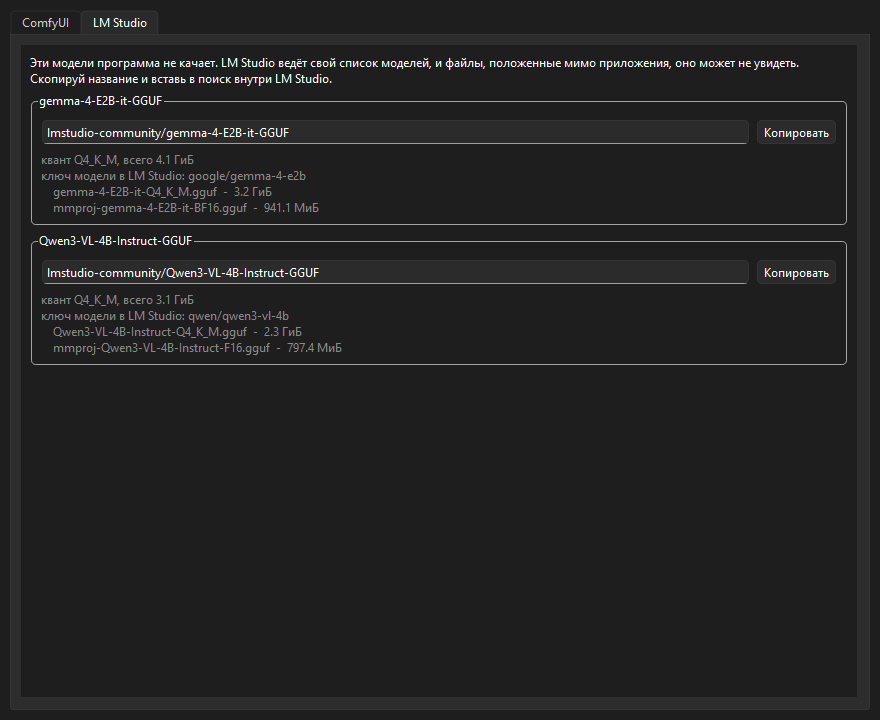
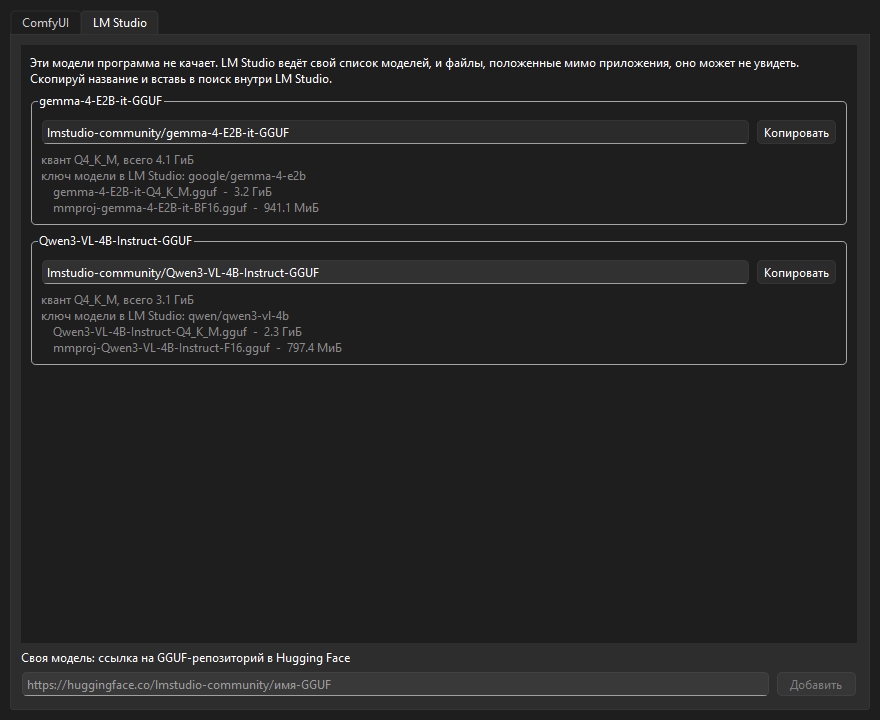
Документация про добавление по ссылке: оба README и docs
Версия 2.1.0. Снимки окна пересобраны скриптом - на вкладках появилось поле
для своей модели.

Changed region(s): [[0.0, 0.8861, 0.9511, 0.9778]]

diff --git a/README.ru.md b/README.ru.md
@@ -2,7 +2,7 @@
 
 # InstallerModels
 
-**Возвращает модели ComfyUI обратно на диск: качает с Hugging Face напрямую, с докачкой после обрыва, проверкой размера и sha256. 15 файлов на 95.4 ГиБ, разложенных по группам под конкретные воркфлоу.**
+**Возвращает модели ComfyUI обратно на диск: качает с Hugging Face напрямую, с докачкой после обрыва, проверкой размера и sha256. 15 файлов на 95.4 ГиБ, разложенных по группам под конкретные воркфлоу. Свои модели добавляются ссылкой - размер, контрольную сумму и настройки программа спрашивает у Hugging Face сама.**
 
 [Скачать для Windows](https://github.com/ALEXalesha/InstallerModels/releases/latest) &nbsp;·&nbsp; [English version of this file](README.md)
 
@@ -24,8 +24,8 @@
 
 | Вариант | Кому | Что нужно |
 |---|---|---|
-| `InstallerModels-Setup-2.0.0.exe` | обычная установка с ярлыками | ничего |
-| `InstallerModels-portable-2.0.0.zip` | распаковать и запускать, без установки | ничего |
+| `InstallerModels-Setup-2.1.0.exe` | обычная установка с ярлыками | ничего |
+| `InstallerModels-portable-2.1.0.zip` | распаковать и запускать, без установки | ничего |
 | `python install.py` | из консоли, скриптом | Python 3.8+ |
 
 Готовые файлы лежат в `dist/` после сборки, в git их нет. Как собрать - в [docs/build.md](docs/build.md).
@@ -34,13 +34,13 @@
 
 ### Установка
 
-Запусти `InstallerModels-Setup-2.0.0.exe`. Ставится в папку пользователя (`%LOCALAPPDATA%\Programs\InstallerModels`), права администратора не нужны, UAC не выскочит. Создаёт ярлык в меню Пуск, запись в «Программы и компоненты» для нормального удаления и, если не снять галочку, ярлык на рабочем столе. Галочка снимается на странице выбора компонентов.
+Запусти `InstallerModels-Setup-2.1.0.exe`. Ставится в папку пользователя (`%LOCALAPPDATA%\Programs\InstallerModels`), права администратора не нужны, UAC не выскочит. Создаёт ярлык в меню Пуск, запись в «Программы и компоненты» для нормального удаления и, если не снять галочку, ярлык на рабочем столе. Галочка снимается на странице выбора компонентов.
 
 Установка поверх старой версии сначала сносит папку `_internal` целиком. PyInstaller меняет имена библиотек от сборки к сборке, и старые копирование новых файлов не перезаписывает: они просто остаются лежать рядом, а программа с ними не стартует.
 
 ### Portable
 
-Распакуй `InstallerModels-portable-2.0.0.zip` в любую папку (можно на флешку) и запусти `InstallerModels\InstallerModels.exe`. Ничего никуда не пишет, кроме самих моделей и запомненной папки ComfyUI. Рядом с exe лежит `models.json` - его можно править, программа возьмёт его вместо встроенного.
+Распакуй `InstallerModels-portable-2.1.0.zip` в любую папку (можно на флешку) и запусти `InstallerModels\InstallerModels.exe`. Ничего никуда не пишет, кроме самих моделей и запомненной папки ComfyUI. Рядом с exe лежит `models.json` - его можно править, программа возьмёт его вместо встроенного.
 
 До версии 2.0 portable был одним exe. С Qt такой exe при каждом запуске распаковывал бы себя во временную папку - десятки мегабайт и секунды ожидания, - поэтому теперь это та же папка, что ставит установщик, только в архиве. Запускается она меньше чем за секунду.
 
@@ -54,9 +54,11 @@
 
 «Скачать выбранное» запускает загрузку. В окне подтверждения написан полный объём группы и отдельно то, что уже лежит недокачанным. Показываются две полосы: по текущему файлу и по всей очереди, плюс скорость и примерное время до конца. Обе цифры считают то, что уже на диске: полоса «всего» стартует с недокачанного, а время - только по тем байтам, которым ещё лететь по сети. До версии 1.0.4 в поток уходил один полный объём очереди, и после обрыва окно начинало полосу с нуля там, где на диске лежало почти всё, и обещало часы вместо минут. Файл, на котором вышла ошибка, полосу больше не заливает до конца: она останавливается на том, сколько успело лечь. «Отмена» останавливает, недокачанное сохраняется - в следующий раз продолжится с того же места. Если отмена пришла ровно на дописанном файле, он всё равно получит нормальное имя, а не останется `.part`.
 
+Под списком групп - поле «Своя модель: ссылка на файл в Hugging Face»: вставь ссылку, нажми «Добавить», и файл появится в списке отдельной группой. Подробности в разделе «Своя модель по ссылке». Пока идёт закачка, кнопка заперта: очередь в потоке собрана по старому списку.
+
 «Проверить файлы» пересматривает диск и обновляет статусы. Полезно, если ты что-то удалил вручную.
 
-Вкладка LM Studio - названия моделей с кнопкой «Копировать». Рядом с квантом показан ключ модели в LM Studio - тот, которым её зовут из `lms load` и из API. Он лежал в `models.json` и был расписан в документации, а сама программа его не показывала нигде. Скопированное переживает закрытие окна: Qt при выходе сам отдаёт буфер обмена системе. (На tkinter до версии 1.0.5 «скопировал и закрыл» означало «вставлять нечего» - ровно тот порядок действий, на который кнопка и рассчитана.)
+Вкладка LM Studio - названия моделей с кнопкой «Копировать» и таким же полем для своей модели внизу. Рядом с квантом показан ключ модели в LM Studio - тот, которым её зовут из `lms load` и из API. Он лежал в `models.json` и был расписан в документации, а сама программа его не показывала нигде. Скопированное переживает закрытие окна: Qt при выходе сам отдаёт буфер обмена системе. (На tkinter до версии 1.0.5 «скопировал и закрыл» означало «вставлять нечего» - ровно тот порядок действий, на который кнопка и рассчитана.)
 
 ![Вкладка LM Studio](docs/screen-lmstudio.png)
 
@@ -109,6 +111,9 @@ python install.py --lmstudio
 | `--lmstudio` | Названия моделей для LM Studio |
 | `--sync-manifest` | Сверяет размеры и суммы в `models.json` с Hugging Face |
 | `--sync-manifest --write` | То же самое, но вписывает их в файл |
+| `--add ССЫЛКА` | Добавляет свою модель в `models.json` по ссылке на Hugging Face |
+| `--add ССЫЛКА --lmstudio` | То же для раздела LM Studio |
+| `--add ССЫЛКА --dest ПУТЬ --group ИМЯ` | Куда положить и в какую группу, если догадка не подходит |
 | `--root ПУТЬ` | Другая папка ComfyUI вместо той, что в `models.json` |
 
 До версии 1.0.5 названия групп при `--check` игнорировались молча: `--check ltx` пересчитывал все 95 ГиБ, а `--check ltxx` с опечаткой - тоже все, и про опечатку не говорил никто. Теперь названия проверяются до разбора команды, одинаково для `--check` и для установки.
@@ -218,7 +223,7 @@ python install.py --all
 
 ## Перенос на другое устройство
 
-Программа переносится копированием: возьми `dist/InstallerModels-portable-2.0.0.zip` (или папку `dist/app/InstallerModels` целиком) - там exe, `_internal`, `models.json`, оба README и `docs`. Python на новой машине не нужен, он внутри. Нужны только Windows и x64. Либо просто поставь там `InstallerModels-Setup`.
+Программа переносится копированием: возьми `dist/InstallerModels-portable-2.1.0.zip` (или папку `dist/app/InstallerModels` целиком) - там exe, `_internal`, `models.json`, оба README и `docs`. Python на новой машине не нужен, он внутри. Нужны только Windows и x64. Либо просто поставь там `InstallerModels-Setup`.
 
 Что **не** переезжает - запомненная папка ComfyUI. Она лежит в `%LOCALAPPDATA%\InstallerModels\settings.json`, то есть привязана к машине и к учётной записи. На новой машине программа возьмёт путь из `models.json`, а он указывает в профиль того, кто этот файл правил. Если папка не найдётся, включится поиск по обычным местам, и чаще всего ComfyUI найдётся сам. Если нет - ткни «Обзор» один раз, дальше запомнится.
 
@@ -259,27 +264,67 @@ lms get lmstudio-community/gemma-4-E2B-it-GGUF
 | `install.py` | Консольный вариант |
 | `build.ps1` | Точка входа сборки: создаёт `.venv` проекта, ставит зависимости, зовёт `build.py` |
 | `build.py` | Сборка папки программы, portable-архива и установщика |
-| `requirements.txt`, `requirements-dev.txt` | PySide6 для окна; PyInstaller для сборки |
+| `requirements.txt`, `requirements-dev.txt` | PySide6 для окна; PyInstaller для сборки, hypothesis для свойств |
 | `setup.nsi` | Скрипт установщика для NSIS |
 | `tests.py` | Проверки на всё, что уже ломалось. Гоняются перед каждой сборкой |
 | `tests_matrix.py` | Перебор пространства состояний с проверкой инвариантов |
+| `tests_props.py` | Свойства добавления по ссылке: гипотезы вместо примеров |
 | `docs/` | Сборка, полный список моделей, LM Studio. Едет в поставку рядом с exe |
 
 Окно и консоль пользуются одним `core.py`, поэтому логика скачивания у них не может разойтись.
 
 `tests.py` запускается сам по себе - `.venv\Scripts\python.exe tests.py` - и не требует сети; из сторонних библиотек ему нужен только PySide6 для проверок окна, и живёт он в `.venv` проекта, а не в общем Python. Hugging Face в нём изображает локальный сервер, которому можно велеть рвать соединение, отдавать не тот размер или молчать в ответ.
 
-Проверок две пачки, и устроены они противоположно. В `tests.py` - список поломок, которые уже случались: каждая написана после того, как баг нашёлся, и названа так, чтобы из отчёта было понятно, что именно сломалось. Такие проверки по построению ловят баг только во второй раз.
+Проверок три пачки, и устроены они по-разному. В `tests.py` - список поломок, которые уже случались: каждая написана после того, как баг нашёлся, и названа так, чтобы из отчёта было понятно, что именно сломалось. Такие проверки по построению ловят баг только во второй раз.
 
 В `tests_matrix.py` - наоборот: он не знает ни одного конкретного бага. Он перебирает 480 сочетаний того, как может повести себя сервер и что может лежать на диске, и в каждой клетке требует одних и тех же семи правил - вроде «наружу вылетает только понятная ошибка, а не трассировка Python» и «под настоящим именем никогда не появляется неправильное содержимое». Такие правила ловят и то, чего никто не предвидел. Там же перебираются 1884 очереди для полосок окна и 264 способа испортить манифест.
 
-Всего 64 проверки, за четырьмя из них 2640 порождённых. Проверками накрыты и консоль (коды возврата, разбор команды, установка от начала до конца), и окно (сборка виджетов, насос событий, три исхода закачки, 300 случайных действий подряд с проверкой инвариантов после каждого, поиск окна по заголовку так же, как это делает установщик, скорость ресайза), и сама сборка, и `setup.nsi`.
+В `tests_props.py` - третий способ: он не знает даже пространства. Он описывает, каким бывает вход - ссылка, опись репозитория, состояние манифеста, - а hypothesis сама ищет тот, на котором правило ломается, и ужимает найденное до кратчайшего примера. В первый же прогон так нашлись три настоящие ошибки: квант брался первым совпадением в имени, а не последним (`Qwen3-Q8-preview-Q4_K_M.gguf` записался бы как `Q8`); файл с именем устройства объяснялся жалобой на `models.json`, которого человек не трогал; а `https://example.com/a/b/...` разбиралось как репозиторий `example.com/a`.
+
+Всего 86 проверок, за семью из них больше шести тысяч порождённых. Проверками накрыты и консоль (коды возврата, разбор команды, установка от начала до конца), и окно (сборка виджетов, насос событий, три исхода закачки, 300 случайных действий подряд с проверкой инвариантов после каждого, поиск окна по заголовку так же, как это делает установщик, скорость ресайза), и сама сборка, и `setup.nsi`.
 
 Подробно про инварианты, оси перебора и мутационный прогон - в [docs/tests.md](docs/tests.md).
 
+## Своя модель по ссылке (с версии 2.1)
+
+В списке лежат модели под конкретные воркфлоу - чужому человеку нужны другие. Раньше для этого приходилось править `models.json` руками и самому добывать точный размер в байтах: ошибка на четыре байта останавливает скачивание сообщением «manifest is out of date», то есть чинить отправляли число, которое ты же и переписал.
+
+Теперь достаточно ссылки. В окне, на вкладке ComfyUI под списком групп, есть поле «Своя модель: ссылка на файл в Hugging Face». В консоли:
+
+```bash
+python install.py --add "https://huggingface.co/автор/репозиторий/blob/main/файл.safetensors"
+```
+
+Программа спрашивает у Hugging Face опись репозитория - ту же, по которой работает `--sync-manifest`, - и берёт оттуда точный размер и sha256. Добавленная запись с первой секунды проверяется так же, как те пятнадцать, что лежали в манифесте изначально.
+
+Ссылку понимают в любом виде, в каком её копируют: `/resolve/`, `/blob/`, `/raw/`, с хвостом `?download=true`, с процентными кодами, без `https://` и короткой записью `автор/репозиторий/путь`. Ветка только `main`: другую программа качать не умеет и потому честно отказывается, а не делает вид.
+
+Папку внутри ComfyUI программа угадывает по тому, как файлы разложены в репозитории: `split_files/text_encoders/...` идёт в `models/text_encoders`, `.gguf` - в `models/unet` (в ComfyUI это квантованный unet для GGUF-нод, а не чекпойнт), файл со словом `lora` в имени - в `models/loras`. Догадка названа догадкой в выводе, и её можно не угадывать:
+
+```bash
+python install.py --add "ссылка" --dest models/loras/моя-lora.safetensors --group свои
+```
+
+Без `--group` файл ложится в группу `custom` («Добавленные вручную»), она создаётся при первом добавлении. `--dry-run` показывает, что добавилось бы, и ничего не записывает.
+
+Отказ ничего не меняет: если репозитория нет, файл не найден, связь оборвалась или запись не годится, манифест остаётся ровно таким, каким был. Половина записи в нём хуже, чем её отсутствие - следующий запуск читает манифест целиком и остановится на кривой строке.
+
+### LM Studio: то же самое, только настройки программа выясняет сама
+
+На вкладке «LM Studio» внизу такое же поле, в консоли - `--add ССЫЛКА --lmstudio`. Тут известен только адрес репозитория, поэтому остальное программа выясняет:
+
+- **файлы и их точные размеры с суммами** - из описи репозитория;
+- **квант** - из имени выбранного файла; по умолчанию берётся `Q4_K_M`, а если нужен другой, дай ссылку прямо на нужный `.gguf`;
+- **спутник `mmproj`** - по имени; без него модель перестанет принимать картинки;
+- **ключ для `lms load`** - из `base_model` в карточке репозитория: `google/gemma-4-E2B-it` даёт `google/gemma-4-e2b`.
+
+Что из этого выведено догадкой, а не прочитано с сервера, программа перечисляет прямо в отчёте. Ключ - именно догадка; он необязателен, и без него всё работает как раньше.
+
+Подробности: [docs/models.md](docs/models.md) и [docs/lmstudio.md](docs/lmstudio.md).
+
 ## Если поменялся состав моделей
 
-Программа ничего не угадывает, она читает `models.json`. Чтобы добавить модель, допиши в нужную группу запись:
+Руками править `models.json` по-прежнему можно, и программа по-прежнему ничего не угадывает - она читает этот файл. Чтобы добавить модель вручную, допиши в нужную группу запись:
 
 ```json
 {

diff --git a/README.md b/README.md
@@ -2,7 +2,7 @@
 
 # InstallerModels
 
-**Puts ComfyUI models back on the disk after you deleted them to free space. Downloads straight from Hugging Face, resumes after a broken connection, checks the size and the sha256 - 15 files, 95.4 GiB, grouped by the workflow that needs them.**
+**Puts ComfyUI models back on the disk after you deleted them to free space. Downloads straight from Hugging Face, resumes after a broken connection, checks the size and the sha256 - 15 files, 95.4 GiB, grouped by the workflow that needs them. Your own models are added by pasting a link: the size, the hash and the settings are asked of Hugging Face, not of you.**
 
 [Download for Windows](https://github.com/ALEXalesha/InstallerModels/releases/latest) &nbsp;·&nbsp; [Русская версия этого файла](README.ru.md)
 
@@ -28,6 +28,7 @@ Models for LM Studio are **not** downloaded: files put into a folder behind LM S
 | Resume | the partial file lives next to the real one as `.part` and is never deleted, so the next run continues from the same byte |
 | Integrity | the size is checked against the response header before a single byte lands, and again after the download; the sha256 is computed while the bytes flow and verified before the file takes its final name |
 | No dependencies | the console version is bare standard library, Python 3.8+; the window adds PySide6 |
+| Your own models | paste a Hugging Face link, in the window or with `--add`: the exact size and sha256 come from the repository listing |
 | Windows builds | installer and portable, both carrying Python inside |
 
 <img src="docs/screen-lmstudio.png" width="820" alt="The LM Studio tab">
@@ -42,6 +43,8 @@ python install.py --check ltx       # per-file state: whole, partial, corrupt, m
 python install.py --verify          # recompute sha256 of what is on the disk
 python install.py --remove ltx --yes
 python install.py --sync-manifest --write   # refresh sizes and hashes from Hugging Face
+python install.py --add "https://huggingface.co/owner/repo/blob/main/file.safetensors"
+python install.py --add "https://huggingface.co/lmstudio-community/Some-GGUF" --lmstudio
 python install.py --all --root "D:/ComfyUI"
 ```
 
@@ -61,6 +64,24 @@ Every rule below was written after the matching failure actually happened. The [
 - **`Accept-Encoding: identity` is sent on purpose.** If a proxy compresses the response, `Content-Length` becomes the size of the archive, and a `Range` resume would seek into the wrong offsets.
 - **A full disk is reported as a full disk**, not retried as a network failure. Free space is checked up front for the whole queue, minus what already lies in `.part`.
 - **`dest` is validated when the manifest is read.** `Path("C:/ComfyUI") / "C:/qwe.bin"` is just `C:/qwe.bin` in Python - one typo and a 30 GiB file goes somewhere else entirely. Absolute paths, `..`, and the Windows device names (`CON`, `NUL`, `COM1`…) plus trailing spaces and dots are rejected outright: those are the names Windows accepts and then stores differently, so the file downloads again on every run, with no error and no file.
+
+## Adding your own model (2.1)
+
+The list ships the models one person's workflows need; anyone else needs different ones. That used to mean editing `models.json` by hand, including finding the exact size **in bytes** - and a four-byte mistake stops the download with "manifest is out of date", sending you to fix the very number you had just typed.
+
+Now it takes a link. There is a field under the group list in the window, and `--add` in the console:
+
+```bash
+python install.py --add "https://huggingface.co/owner/repo/blob/main/model.safetensors"
+```
+
+The program asks Hugging Face for the repository listing - the same one `--sync-manifest` uses - and takes the exact size and sha256 from it. The new entry is then checked exactly like the fifteen that shipped with it.
+
+- **Any shape of link works**: `/resolve/`, `/blob/`, `/raw/`, with `?download=true`, percent-encoded, without `https://`, or the short `owner/repo/path`. Only the `main` branch is accepted, because that is the only one the downloader can fetch - promising otherwise would be a lie.
+- **The folder inside ComfyUI is a guess, and is labelled as one**: `split_files/text_encoders/...` goes to `models/text_encoders`, a `.gguf` to `models/unet` (in ComfyUI that is a quantised unet for the GGUF nodes, not a checkpoint), a name containing `lora` to `models/loras`. Override it with `--dest models/loras/mine.safetensors --group mine`.
+- **A failure changes nothing.** Repository missing, file not in it, connection lost, name Windows cannot store - the manifest stays byte-for-byte as it was. Half an entry is worse than none: the next run reads the manifest whole and stops on the broken line.
+
+**LM Studio models work the same way, except the program works the settings out itself.** All you know is the repository address, so it reads the files and their exact sizes from the listing, takes the quant from the chosen file name (preferring `Q4_K_M`), picks up the `mmproj` companion by name - without it the model stops accepting images - and derives the `lms load` key from `base_model` in the repository card: `google/gemma-4-E2B-it` gives `google/gemma-4-e2b`. Whatever was guessed rather than read is listed as a guess in the report.
 
 ## Tests
 
@@ -89,9 +110,9 @@ Creates the project's own `.venv`, installs the dependencies, runs every check, 
 
 The title, the program name and the version are written down exactly once, in `core.py`; `build.py` generates `version.nsh` from them for NSIS. A check of the form "A equals B" is a symptom - the same fact is recorded twice. Keeping copies in sync never gets cheaper than not having copies.
 
-## Adding a model
+## Editing the manifest by hand
 
-`models.json` is the whole truth; the program guesses nothing.
+Hand-editing still works, and the program still guesses nothing - `models.json` is the whole truth. It is just no longer the only way in; see "Adding your own model" above.
 
 ```json
 {

diff --git a/docs/tests.md b/docs/tests.md
@@ -144,13 +144,35 @@
 .venv\Scripts\python.exe tests.py
 ```
 
-63 проверки, за четырьмя из них 2640 порождённых. Сеть не нужна, а из сторонних библиотек - только PySide6 для проверок окна, из `.venv` проекта (его создаёт `build.ps1`). Hugging Face изображает локальный сервер, которому можно велеть рвать связь, врать размером, не понимать `Range` или молчать в ответ. Прогон идёт перед каждой сборкой, `build.py` не начнёт работу, если хоть одна провалилась.
+86 проверок, за семью из них больше шести тысяч порождённых. Сеть не нужна, а из сторонних библиотек - только PySide6 для проверок окна, из `.venv` проекта (его создаёт `build.ps1`). Hugging Face изображает локальный сервер, которому можно велеть рвать связь, врать размером, не понимать `Range` или молчать в ответ. Прогон идёт перед каждой сборкой, `build.py` не начнёт работу, если хоть одна провалилась.
 
-Матрицу можно гонять отдельно:
+Матрицу и свойства можно гонять отдельно:
 
 ```bash
 python tests_matrix.py
+python tests_props.py
 ```
+
+## Свойства: третья пачка (версия 2.1)
+
+`tests_props.py` появился вместе с добавлением моделей по ссылке и устроен иначе, чем обе прежние пачки. `tests.py` знает конкретные поломки, `tests_matrix.py` перебирает заранее выписанное пространство, а этот файл не знает ни одного входа: он описывает, каким вход бывает вообще, а hypothesis сама ищет тот, на котором правило ломается, и ужимает найденное до кратчайшего примера.
+
+Правила ровно четыре, и все четыре про то, чего не должно случиться никогда:
+
+- разбор ссылки обратим: из какого бы вида ссылки ни собрали адрес - `/resolve/`, `/blob/`, `/raw/`, короткая запись, процентные коды, хвост `?download=true` - вынимаются тот же репозиторий и тот же путь;
+- догадка о папке внутри ComfyUI всегда даёт `dest`, который принимает `dest_parts`, и всегда сохраняет имя файла;
+- добавление либо проходит целиком, либо не меняет манифест ни на байт: половина записи хуже, чем её отсутствие, - следующий запуск читает манифест целиком и остановится на кривой записи;
+- наружу вылетает только `ValueError` или `RuntimeError`: трассировка Python на человека, который вставил ссылку, - это не сообщение об ошибке.
+
+Три настоящие ошибки гипотезы нашли в первый же прогон, и все три - в коде, а не в проверках:
+
+1. **Квант брался первым совпадением, а не последним.** В имени `Qwen3-Q8-preview-Q4_K_M.gguf` первым найдётся `Q8`, и модель записалась бы в манифест не тем квантом, которым её скачают.
+2. **Файл с именем устройства объяснялся не тем.** Репозиторий с файлом `CON.safetensors` давал сообщение «плохой dest в models.json» - то есть человека, который вставил ссылку, отправляли чинить файл, которого он не трогал.
+3. **Чужой хост принимался за автора.** `https://example.com/a/b/resolve/main/f.bin` разбиралось как репозиторий `example.com/a`. Отличить хост от имени автора удалось по концу первой части: у хоста после последней точки стоит домен из букв - правило написано после того, как гипотеза предложила автора по имени `a.`.
+
+Отдельно там же лежат перебор углов (ссылка × опись репозитория × `dest` - 540 клеток) и сто случайных добавлений подряд с проверкой манифеста после каждого. В переборе стоит счётчик удач: перебор, в котором всё падает, не проверяет ничего, и ровно так и было, пока ссылки в нём были написаны кириллицей и ни одна не разбиралась.
+
+Для этой пачки нужен `hypothesis` - он в `requirements-dev.txt`, то есть в `.venv` проекта он уже есть.
 
 ## Окно на Qt (версия 2.0)
 

diff --git a/docs/models.md b/docs/models.md
@@ -94,6 +94,26 @@ python install.py --sync-manifest --write
 
 15 файлов  95.4 GiB (102 472 923 377 байт).
 
+## Как добавить свою модель (с версии 2.1)
+
+Править `models.json` руками больше не нужно. В окне, на вкладке ComfyUI, под списком групп есть поле «Своя модель: ссылка на файл в Hugging Face». В консоли то же самое:
+
+```bash
+python install.py --add "https://huggingface.co/автор/репозиторий/blob/main/файл.safetensors"
+```
+
+Программа спрашивает у Hugging Face опись репозитория - ту же, по которой работает `--sync-manifest`, - и берёт оттуда точный размер в байтах и sha256. Именно ради этого команда и появилась: руками размер добывался по одному `curl` на файл, а ошибка на четыре байта останавливает скачивание сообщением «manifest is out of date», то есть человека отправляли чинить число, которое он же и переписал.
+
+Папку внутри ComfyUI программа угадывает по тому, как файлы разложены в репозитории: `split_files/text_encoders/...` кладётся в `models/text_encoders`, `.gguf` - в `models/unet` (в ComfyUI это квантованный unet для GGUF-нод, а не чекпойнт), файл со словом `lora` в имени - в `models/loras`. Догадка называется догадкой в выводе, и её можно не угадывать:
+
+```bash
+python install.py --add "ссылка" --dest models/loras/моя-lora.safetensors --group свои
+```
+
+Без `--group` файл ложится в группу `custom` («Добавленные вручную»), она создаётся при первом добавлении. Ссылку понимают в любом виде, в каком её копируют: `/resolve/`, `/blob/`, `/raw/`, с хвостом `?download=true`, с процентными кодами и короткую запись `автор/репозиторий/путь`. Ветка только `main` - другую программа качать не умеет и потому честно отказывается.
+
+`--dry-run` показывает, что добавилось бы, и ничего не записывает.
+
 ## Чего в этом списке нет
 
 В воркфлоу `video_ltx2_3_ia2v.json` упоминаются ещё два файла:

diff --git a/docs/lmstudio.md b/docs/lmstudio.md
@@ -65,6 +65,24 @@ C:\Users\User\.lmstudio\models\lmstudio-community\Qwen3-VL-4B-Instruct-GGUF\
 
 Рядом есть папка `C:\Users\User\.lmstudio\hub\models\` - там лежат только манифесты и настройки моделей, весов в ней нет. Её удалять не надо, она весит копейки.
 
+## Как добавить свою модель (с версии 2.1)
+
+На вкладке «LM Studio» внизу есть поле «Своя модель: ссылка на GGUF-репозиторий в Hugging Face». В консоли:
+
+```bash
+python install.py --add "https://huggingface.co/lmstudio-community/Llama-3.2-3B-Instruct-GGUF" --lmstudio
+```
+
+Настройки модели программа выясняет сама, а не спрашивает. Из описи репозитория берутся файлы, их точные размеры и контрольные суммы; квант читается из имени выбранного файла (предпочитается `Q4_K_M` - то, чем пользуются по умолчанию); спутник `mmproj` подбирается по имени, иначе модель перестала бы принимать картинки; ключ для `lms load` выводится из `base_model` в карточке репозитория - `google/gemma-4-E2B-it` даёт `google/gemma-4-e2b`.
+
+Что именно выведено догадкой, а не прочитано с сервера, программа перечисляет прямо в отчёте. Ключ - именно догадка: он необязателен, и без него всё работает как раньше, просто в окне не будет строчки «ключ модели в LM Studio».
+
+Если нужен не `Q4_K_M`, а другой квант, дайте ссылку прямо на файл:
+
+```bash
+python install.py --add ".../resolve/main/Llama-3.2-3B-Instruct-Q6_K.gguf" --lmstudio
+```
+
 ## Быстрая справка из скрипта
 
 Те же названия, кванты и ключи моделей показывает вкладка «LM Studio» в окне программы, с кнопкой «Копировать». Или командой:
